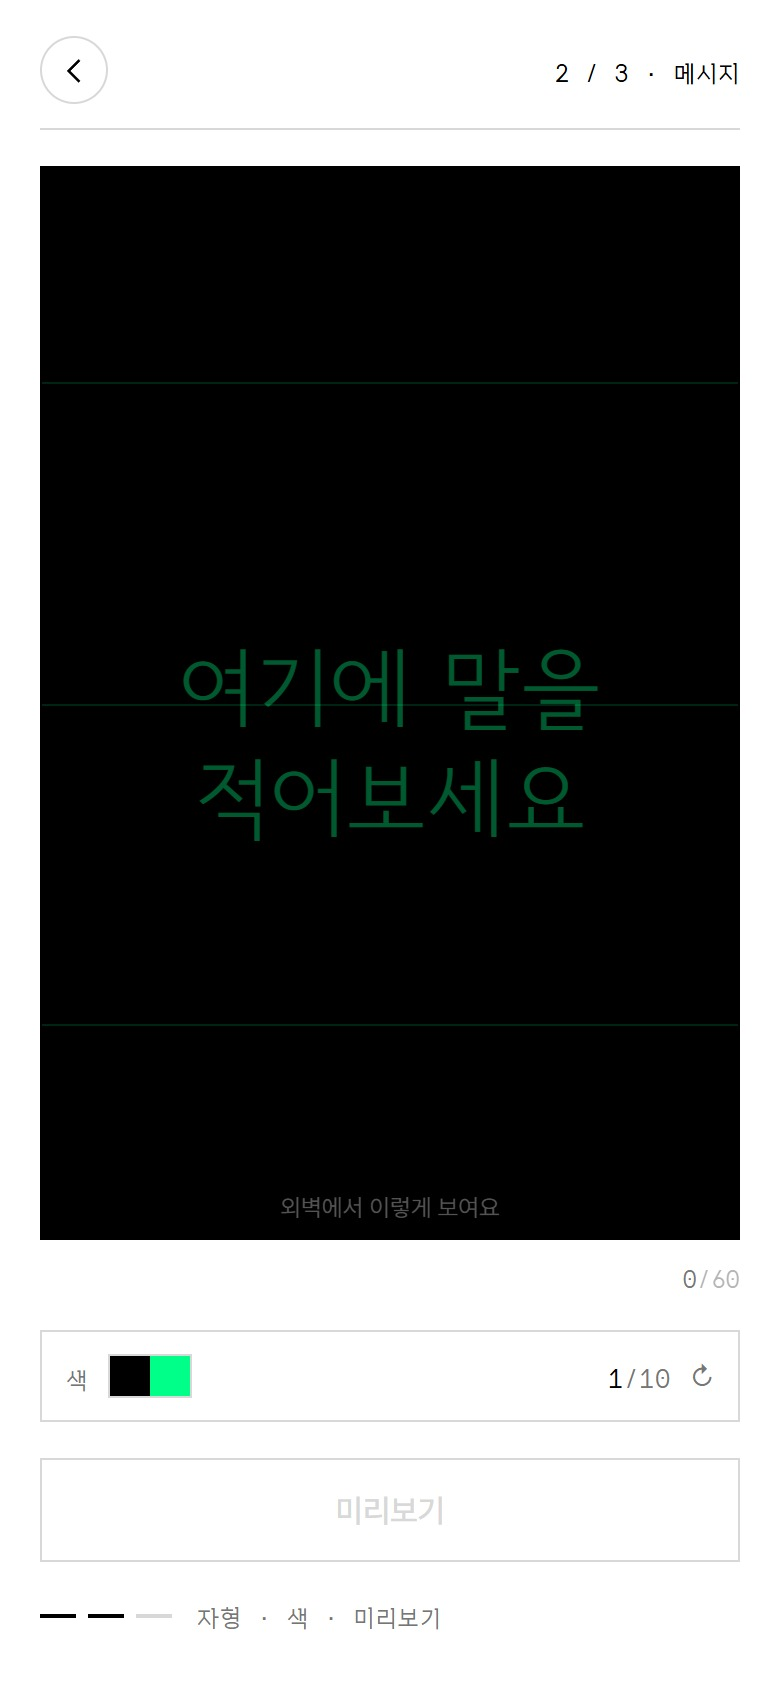
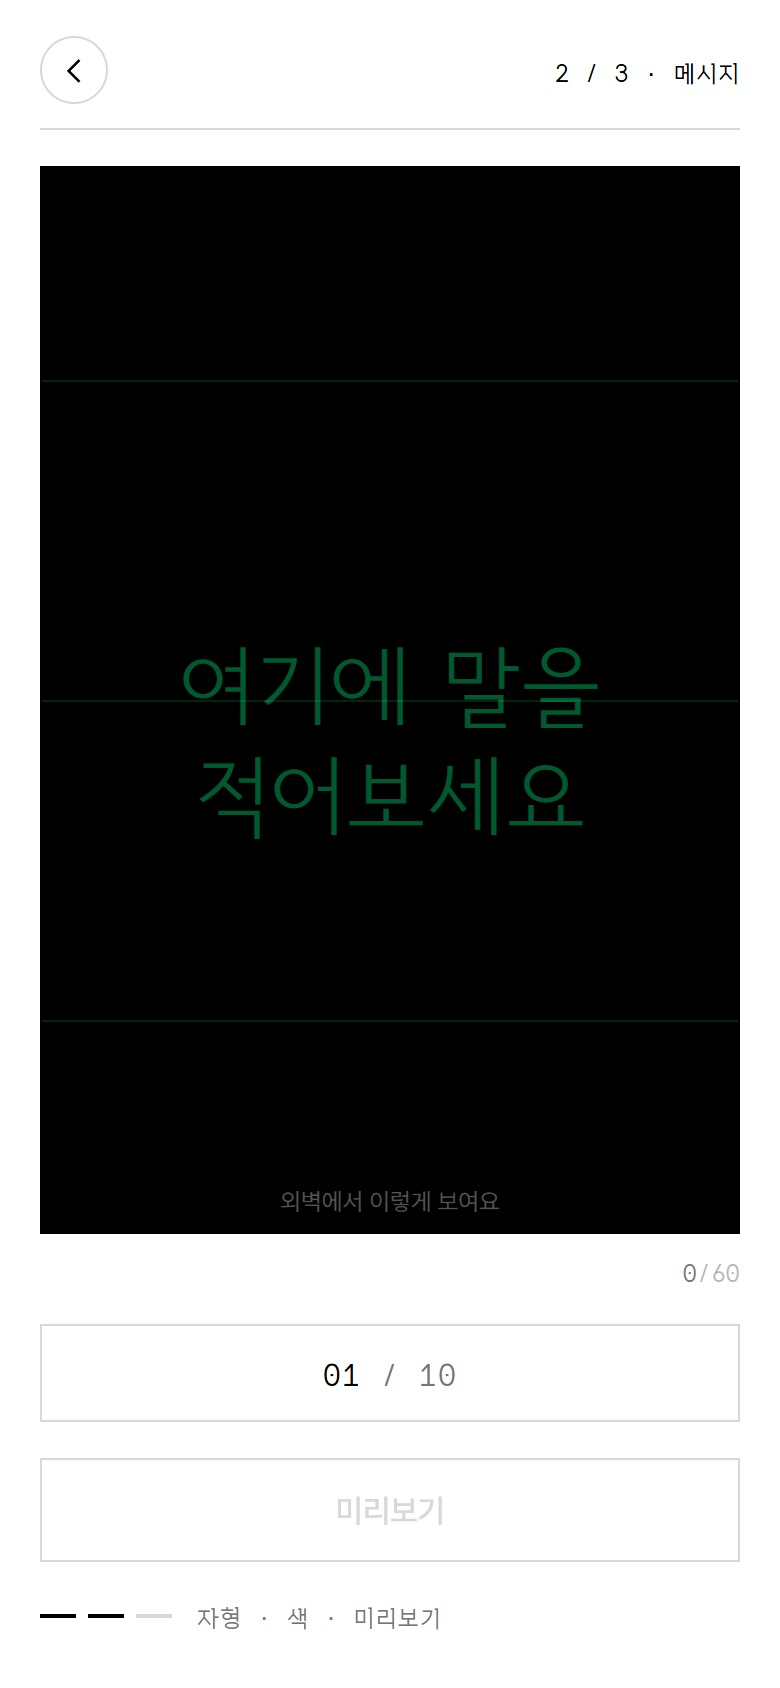
Let the glyph screen open empty, and count colours instead of naming them
Both controls were narrating what the preview already showed.

The colour button carried a label, two swatches and a rotate glyph to say
what the stage below it says in full colour. It is a counter now — 01 /
10 — and pressing it moves to the next pair.

The glyph screen no longer opens on a default face. The stage starts
empty with "원하는 스타일을 택해주세요", and the four cards show only the
adjective. Pick one and that card alone reveals its family — 손글씨,
탈네모, 고딕, 명조 — set in the face it names. You decide the attitude
first and learn what it was called second, which is the order the project
argues for everywhere else. Next stays disabled until something is
chosen, so the empty stage is a real state rather than a blank.

diff --git a/src/phases/PhaseGlyph.tsx b/src/phases/PhaseGlyph.tsx
@@ -11,20 +11,18 @@ interface Props {
   onNext: (partialTone: PartialTone) => void;
 }
 
-// Glyph tuning happens before the message is written, so we shape a short
-// representative sample word ("발화") instead of a lone character.
+// 글을 쓰기 전이라 한 글자 대신 짧은 대표 낱말로 형태를 본다.
 const SAMPLE_TEXT = '발화';
 
 const DEFAULT = {
-  font: 'ttoryeot' as const,
   tone: 1.0,
   wght: 500,
   slnt: 0,
   size: 44
 };
 
-// 자형 4종 — 태도(형용사)로 고르고, 아래에 서체 계열을 병기한다.
-// 정도가 아니라 종류라서 슬라이더가 아니라 선택이다.
+// 자형 4종 — 고르는 근거는 태도(형용사)다.
+// 서체 계열은 고른 칸에만 뜬다: 먼저 마음을 정하고, 그게 무엇이었는지 나중에 안다.
 const STYLE_OPTIONS: Array<{ val: ToneState['font']; label: string; kind: string }> = [
   { val: 'doran', label: '다정한', kind: '손글씨' },
   { val: 'deulseok', label: '짓궂은', kind: '탈네모' },
@@ -55,8 +53,10 @@ const AXIS_LABELS: Record<string, string> = {
 };
 
 export default function PhaseGlyph({ initialTone, onBack, onNext }: Props) {
+  // 처음에는 아무것도 고르지 않은 상태로 연다 — 무대가 비어 있어야
+  // '고르는 일'이 이 화면의 과제라는 게 보인다.
+  const [font, setFont] = useState<ToneState['font'] | null>(initialTone?.font ?? null);
   const [tone, setTone] = useState({
-    font: initialTone?.font ?? DEFAULT.font,
     tone: initialTone?.tone ?? DEFAULT.tone,
     wght: initialTone?.wght ?? DEFAULT.wght,
     slnt: initialTone?.slnt ?? DEFAULT.slnt,
@@ -71,36 +71,42 @@ export default function PhaseGlyph({ initialTone, onBack, onNext }: Props) {
       </div>
 
       <div className="z-glyph-stage">
-        <div
-          className="z-glyph"
-          style={{
-            fontFamily: fontMap[tone.font],
-            fontWeight: tone.wght,
-            fontVariationSettings: `"wght" ${tone.wght}`,
-            transform: `scaleX(${tone.tone}) skewX(${tone.slnt}deg)`,
-            fontSize: Math.round(tone.size * 3) + 'px'
-          }}
-        >
-          {SAMPLE_TEXT}
-        </div>
-        <div className="z-glyph-caption">예시 ‘발화’로 형태를 정해요</div>
+        {font ? (
+          <>
+            <div
+              className="z-glyph"
+              style={{
+                fontFamily: fontMap[font],
+                fontWeight: tone.wght,
+                fontVariationSettings: `"wght" ${tone.wght}`,
+                transform: `scaleX(${tone.tone}) skewX(${tone.slnt}deg)`,
+                fontSize: Math.round(tone.size * 3) + 'px'
+              }}
+            >
+              {SAMPLE_TEXT}
+            </div>
+            <div className="z-glyph-caption">예시 ‘발화’로 형태를 정해요</div>
+          </>
+        ) : (
+          <div className="z-glyph-ask">원하는 스타일을 택해주세요</div>
+        )}
       </div>
 
       <div className="style-cards" role="group" aria-label="자형 고르기">
         {STYLE_OPTIONS.map((s) => {
-          const on = s.val === tone.font;
+          const on = s.val === font;
           return (
             <button
               key={s.val}
               type="button"
               className={'style-card ' + (on ? 'on' : '')}
               aria-pressed={on}
-              onClick={() => setTone((t) => ({ ...t, font: s.val }))}
+              onClick={() => setFont(s.val)}
             >
-              <span className="style-card-name" style={{ fontFamily: fontMap[s.val] }}>
+              <span className="style-card-name" style={{ fontFamily: on ? fontMap[s.val] : undefined }}>
                 {s.label}
               </span>
-              <span className="style-card-kind">{s.kind}</span>
+              {on && <span className="style-card-kind">{s.kind}</span>}
             </button>
           );
         })}
@@ -128,7 +134,11 @@ export default function PhaseGlyph({ initialTone, onBack, onNext }: Props) {
         </div>
       </div>
 
-      <button className="primary-action" onClick={() => onNext(tone)}>
+      <button
+        className="primary-action"
+        disabled={!font}
+        onClick={() => font && onNext({ font, ...tone })}
+      >
         <span>이 자형으로, 다음</span>
       </button>
 

diff --git a/src/styles/app.css b/src/styles/app.css
@@ -294,6 +294,12 @@
   transform-origin: center;
 }
 
+.z-glyph-ask {
+  font-size: 15px;
+  color: var(--muted);
+  text-align: center;
+}
+
 .z-glyph-caption,
 .z-stage-caption {
   font-size: 12px;
@@ -317,7 +323,9 @@
   background: var(--paper);
   border: none;
   border-radius: 0;
-  padding: 13px 4px 11px;
+  min-height: 62px;
+  justify-content: center;
+  padding: 10px 4px;
   font-family: inherit;
   color: var(--ink);
   cursor: pointer;
@@ -647,30 +655,19 @@
   background: var(--paper);
   border: 1px solid var(--line);
   border-radius: 0;
-  padding: 11px 12px;
+  padding: 13px 12px;
   font-family: inherit;
   cursor: pointer;
   display: flex;
   align-items: center;
-  gap: 10px;
+  justify-content: center;
   flex: none;
 }
 
-.z-swatch {
-  display: inline-flex;
-  border: 1px solid var(--line);
-}
-
-.z-swatch i {
-  display: block;
-  width: 20px;
-  height: 20px;
-}
-
 .z-cycle-count {
-  margin-left: auto;
   font-family: var(--label-font);
-  font-size: 13px;
+  font-size: 15px;
+  letter-spacing: 0.04em;
   color: var(--ink);
   font-variant-numeric: tabular-nums;
 }
@@ -679,23 +676,10 @@
   color: var(--muted);
 }
 
-.z-cycle-label {
-  font-family: var(--label-font);
-  font-size: 12px;
-  letter-spacing: 0.02em;
-  text-transform: uppercase;
-  color: var(--muted);
-}
-
 .z-cycle-value {
   font-size: 14px;
   font-weight: 500;
   color: var(--ink);
-}
-
-.z-cycle-arrow {
-  font-size: 13px;
-  color: var(--muted);
 }
 
 /* ─── 진행 표시 ─────────────────────────────────────────────── */

diff --git a/src/phases/PhaseCompose.tsx b/src/phases/PhaseCompose.tsx
@@ -156,24 +156,16 @@ export default function PhaseCompose({
         <span>/{MAX}</span>
       </div>
 
-      {/* 색 — 누를 때마다 다음 조합으로. 이름 대신 색 자체를 보여준다. */}
+      {/* 색 — 무대가 이미 색을 보여주므로 버튼은 몇 번째인지만 센다 */}
       <button
         type="button"
         className="z-cycle"
         onClick={() => setMoodIdx((i) => (i + 1) % moods.length)}
         aria-label={`색 바꾸기 — 지금 ${moodIdx + 1}번째, 모두 ${moods.length}가지`}
       >
-        <span className="z-cycle-label">색</span>
-        <span className="z-swatch" aria-hidden>
-          <i style={{ background: mood.bg }} />
-          <i style={{ background: mood.text }} />
-        </span>
         <span className="z-cycle-count">
-          {moodIdx + 1}
-          <span>/{moods.length}</span>
-        </span>
-        <span className="z-cycle-arrow" aria-hidden>
-          ↻
+          {String(moodIdx + 1).padStart(2, '0')}
+          <span> / {moods.length}</span>
         </span>
       </button>
 
